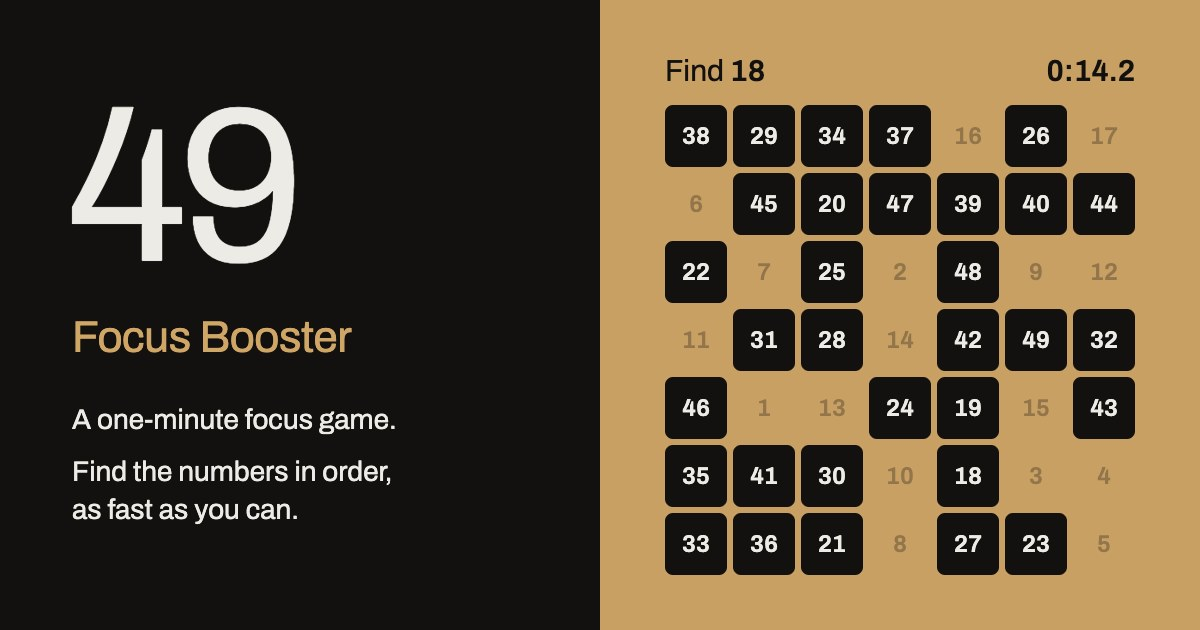
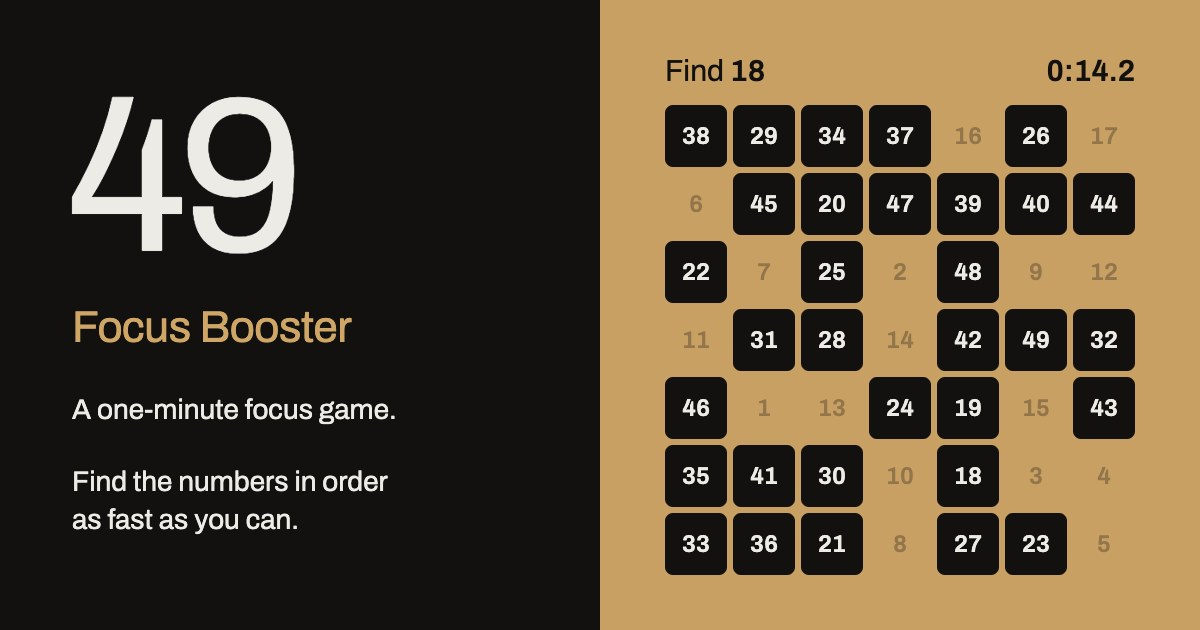
Share picture: A one-minute focus game, then Find the numbers in order / as fast as you can, without the comma; new file name

diff --git a/ja/index.html b/ja/index.html
@@ -11,7 +11,7 @@
   <meta property="og:title" content="49 - Focus Booster：1分間の集中力ゲーム">
   <meta property="og:description" content="1から49までの数字を順番に、できるだけ速く見つけましょう。シュルテテーブルのゲームで、オープンベータは無料です。">
   <meta property="og:locale" content="ja_JP">
-  <meta property="og:image" content="https://49game.github.io/assets/og-49.jpg">
+  <meta property="og:image" content="https://49game.github.io/assets/og-49b.jpg">
   <meta property="og:image:type" content="image/jpeg">
   <meta property="og:image:width" content="1200">
   <meta property="og:image:height" content="630">

diff --git a/ko/index.html b/ko/index.html
@@ -11,7 +11,7 @@
   <meta property="og:title" content="49 - Focus Booster: 1분 집중력 게임">
   <meta property="og:description" content="1부터 49까지의 숫자를 순서대로 최대한 빨리 찾으세요. 슐테 테이블 게임이고, 오픈 베타에서 무료로 즐길 수 있어요.">
   <meta property="og:locale" content="ko_KR">
-  <meta property="og:image" content="https://49game.github.io/assets/og-49.jpg">
+  <meta property="og:image" content="https://49game.github.io/assets/og-49b.jpg">
   <meta property="og:image:type" content="image/jpeg">
   <meta property="og:image:width" content="1200">
   <meta property="og:image:height" content="630">

diff --git a/achievements.html b/achievements.html
@@ -11,7 +11,7 @@
   <meta property="og:site_name" content="49 - Focus Booster">
   <meta property="og:locale" content="en_US">
   <meta property="og:description" content="Every achievement in 49 - Focus Booster: speed, precision, focus, combos, Endless, Beat the Clock, Daily Challenges, streaks and more, with ranks from Rookie to Legend.">
-  <meta property="og:image" content="https://49game.github.io/assets/og-49.jpg">
+  <meta property="og:image" content="https://49game.github.io/assets/og-49b.jpg">
   <meta property="og:image:type" content="image/jpeg">
   <meta property="og:image:width" content="1200">
   <meta property="og:image:height" content="630">

diff --git a/es/index.html b/es/index.html
@@ -11,7 +11,7 @@
   <meta property="og:title" content="49 - Focus Booster: un juego de concentración de un minuto">
   <meta property="og:description" content="Encuentra los números del 1 al 49 en orden, lo más rápido que puedas. Un juego de tabla de Schulte, gratis en beta abierta.">
   <meta property="og:locale" content="es_ES">
-  <meta property="og:image" content="https://49game.github.io/assets/og-49.jpg">
+  <meta property="og:image" content="https://49game.github.io/assets/og-49b.jpg">
   <meta property="og:image:type" content="image/jpeg">
   <meta property="og:image:width" content="1200">
   <meta property="og:image:height" content="630">

diff --git a/it/index.html b/it/index.html
@@ -11,7 +11,7 @@
   <meta property="og:title" content="49 - Focus Booster: un gioco di concentrazione da un minuto">
   <meta property="og:description" content="Trova i numeri da 1 a 49 in ordine, il più velocemente possibile. Un gioco con la tabella di Schulte, gratis in beta aperta.">
   <meta property="og:locale" content="it_IT">
-  <meta property="og:image" content="https://49game.github.io/assets/og-49.jpg">
+  <meta property="og:image" content="https://49game.github.io/assets/og-49b.jpg">
   <meta property="og:image:type" content="image/jpeg">
   <meta property="og:image:width" content="1200">
   <meta property="og:image:height" content="630">

diff --git a/fr/index.html b/fr/index.html
@@ -11,7 +11,7 @@
   <meta property="og:title" content="49 - Focus Booster : un jeu de concentration d’une minute">
   <meta property="og:description" content="Trouve les nombres de 1 à 49 dans l’ordre, le plus vite possible. Un jeu de table de Schulte, gratuit en bêta ouverte.">
   <meta property="og:locale" content="fr_FR">
-  <meta property="og:image" content="https://49game.github.io/assets/og-49.jpg">
+  <meta property="og:image" content="https://49game.github.io/assets/og-49b.jpg">
   <meta property="og:image:type" content="image/jpeg">
   <meta property="og:image:width" content="1200">
   <meta property="og:image:height" content="630">

diff --git a/de/index.html b/de/index.html
@@ -11,7 +11,7 @@
   <meta property="og:title" content="49 - Focus Booster: ein einminütiges Konzentrationsspiel">
   <meta property="og:description" content="Finde die Zahlen 1 bis 49 der Reihe nach, so schnell du kannst. Ein Schulte-Tabellen-Spiel, kostenlos in der offenen Beta.">
   <meta property="og:locale" content="de_DE">
-  <meta property="og:image" content="https://49game.github.io/assets/og-49.jpg">
+  <meta property="og:image" content="https://49game.github.io/assets/og-49b.jpg">
   <meta property="og:image:type" content="image/jpeg">
   <meta property="og:image:width" content="1200">
   <meta property="og:image:height" content="630">

diff --git a/privacy.html b/privacy.html
@@ -11,7 +11,7 @@
   <meta property="og:site_name" content="49 - Focus Booster">
   <meta property="og:locale" content="en_US">
   <meta property="og:description" content="How 49 - Focus Booster handles your data: your games stay on your iPhone, with anonymous usage statistics, optional Game Center and ads in the free version.">
-  <meta property="og:image" content="https://49game.github.io/assets/og-49.jpg">
+  <meta property="og:image" content="https://49game.github.io/assets/og-49b.jpg">
   <meta property="og:image:type" content="image/jpeg">
   <meta property="og:image:width" content="1200">
   <meta property="og:image:height" content="630">

diff --git a/pt-br/index.html b/pt-br/index.html
@@ -11,7 +11,7 @@
   <meta property="og:title" content="49 - Focus Booster: um jogo de foco de um minuto">
   <meta property="og:description" content="Encontre os números de 1 a 49 em ordem, o mais rápido que puder. Um jogo de tabela de Schulte, grátis em beta aberto.">
   <meta property="og:locale" content="pt_BR">
-  <meta property="og:image" content="https://49game.github.io/assets/og-49.jpg">
+  <meta property="og:image" content="https://49game.github.io/assets/og-49b.jpg">
   <meta property="og:image:type" content="image/jpeg">
   <meta property="og:image:width" content="1200">
   <meta property="og:image:height" content="630">

diff --git a/pl/index.html b/pl/index.html
@@ -11,7 +11,7 @@
   <meta property="og:title" content="49 - Focus Booster: minutowa gra na skupienie">
   <meta property="og:description" content="Znajduj liczby od 1 do 49 po kolei, najszybciej, jak potrafisz. Tablica Schultego, za darmo w otwartej becie.">
   <meta property="og:locale" content="pl_PL">
-  <meta property="og:image" content="https://49game.github.io/assets/og-49.jpg">
+  <meta property="og:image" content="https://49game.github.io/assets/og-49b.jpg">
   <meta property="og:image:type" content="image/jpeg">
   <meta property="og:image:width" content="1200">
   <meta property="og:image:height" content="630">

diff --git a/index.html b/index.html
@@ -11,7 +11,7 @@
   <meta property="og:title" content="49 - Focus Booster: a one-minute focus game">
   <meta property="og:description" content="Find the numbers 1 to 49 in order, as fast as you can. A Schulte table game, free in open beta.">
   <meta property="og:locale" content="en_US">
-  <meta property="og:image" content="https://49game.github.io/assets/og-49.jpg">
+  <meta property="og:image" content="https://49game.github.io/assets/og-49b.jpg">
   <meta property="og:image:type" content="image/jpeg">
   <meta property="og:image:width" content="1200">
   <meta property="og:image:height" content="630">

diff --git a/support.html b/support.html
@@ -11,7 +11,7 @@
   <meta property="og:site_name" content="49 - Focus Booster">
   <meta property="og:locale" content="en_US">
   <meta property="og:description" content="Help with 49 - Focus Booster: contact, Premium, Game Center and common questions.">
-  <meta property="og:image" content="https://49game.github.io/assets/og-49.jpg">
+  <meta property="og:image" content="https://49game.github.io/assets/og-49b.jpg">
   <meta property="og:image:type" content="image/jpeg">
   <meta property="og:image:width" content="1200">
   <meta property="og:image:height" content="630">
